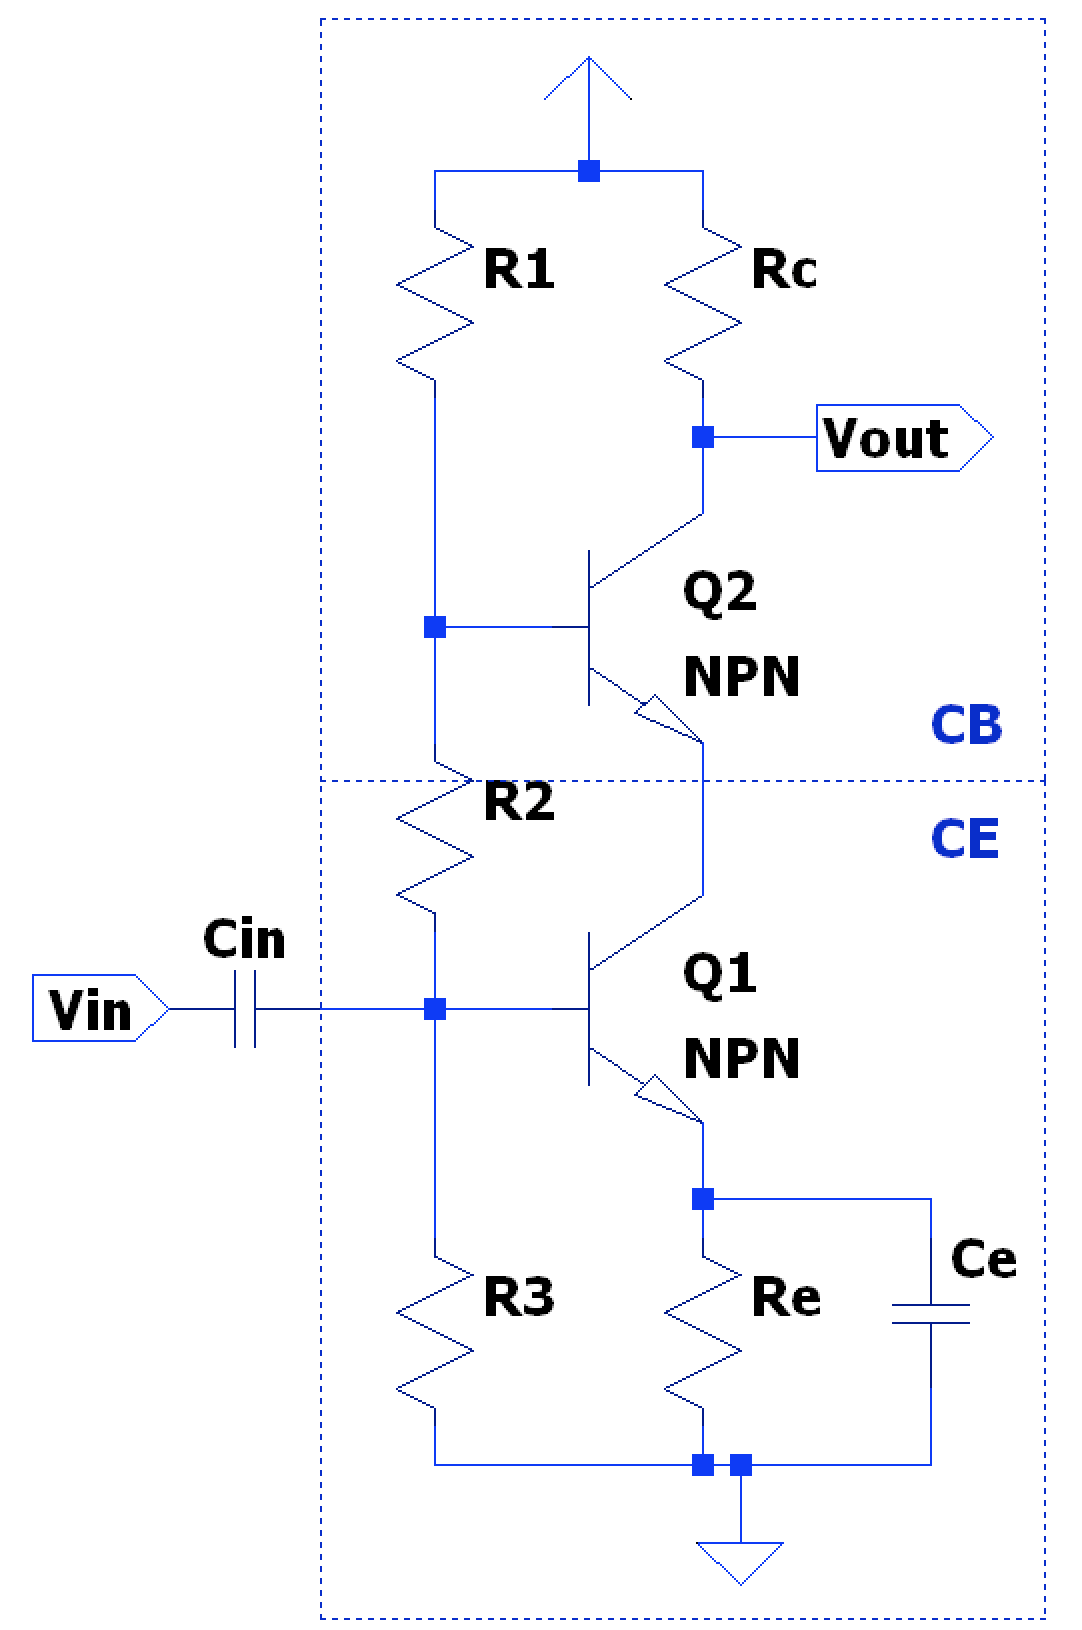
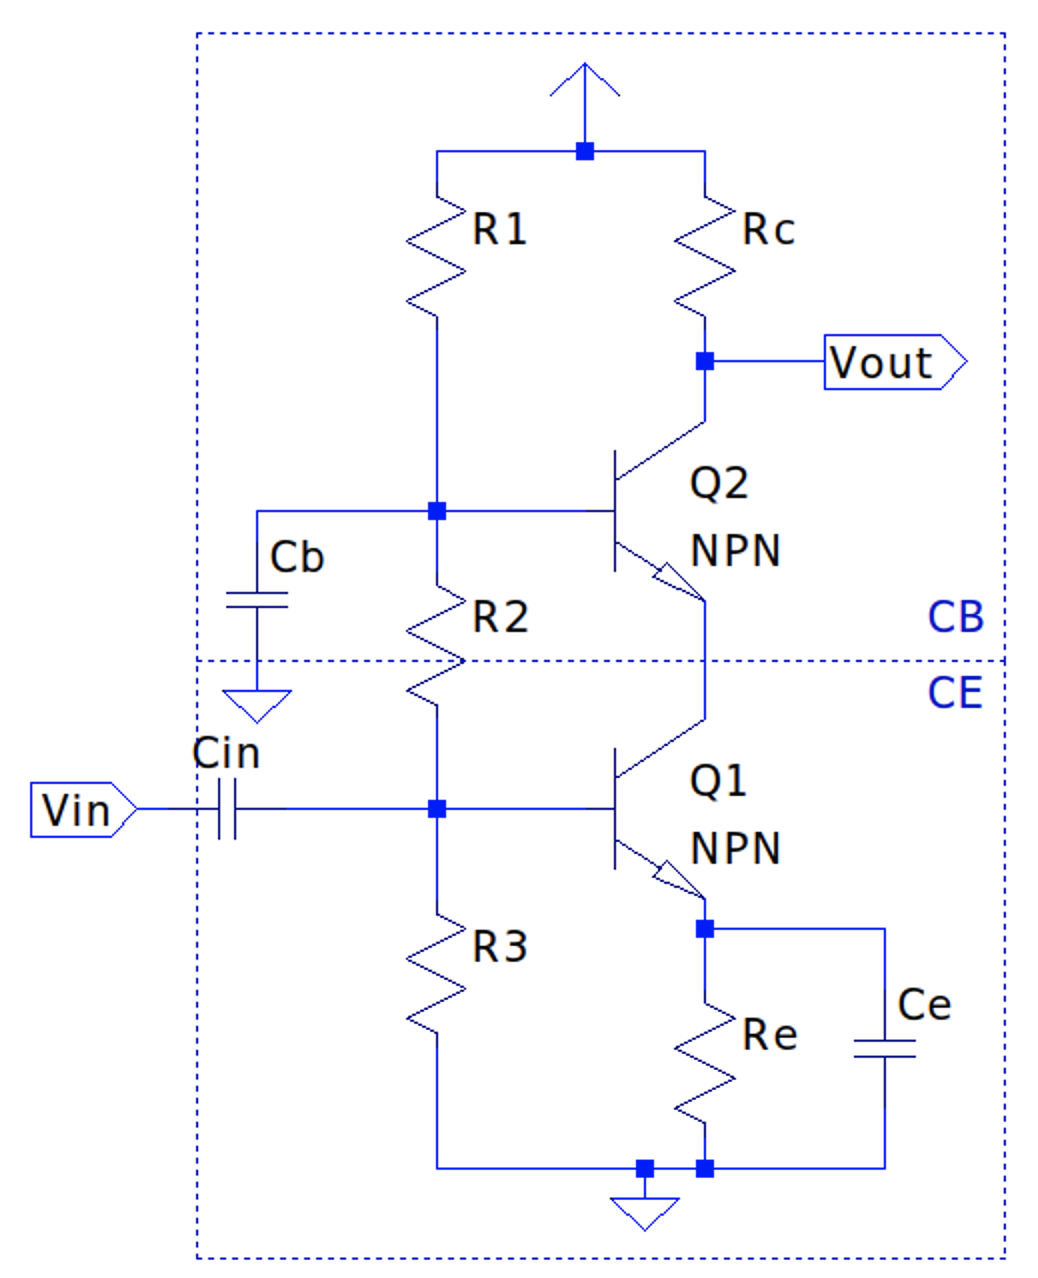
More analog notes

Changed region(s): [[0.0308, 0.0305, 0.9865, 1.0], [0.185, 0.4883, 0.2158, 0.5188]]

diff --git a/kb/analog/transistor_design.md b/kb/analog/transistor_design.md
@@ -19,6 +19,16 @@ The collector terminal in the model is an ideal current source since a BJT opera
 This also follows the ideal current source characteristic of having nearly infinite output impedance:
 \$\$ \frac{v}{i}=r \rightarrow  \frac{\Delta v_{ce} \to \infty}{\Delta i_{c} \to 0} \approx \boxed{ r_{o} = \infty \Omega } \$\$
 
+#### BJT Output Impedance: Early Effect
+
+As shown above though, a real transistor does not exhibit perfectly constant (zero slope) output impedance in the curve above. Instead, there is a property called the **Early Effect** which describes the increase of depletion regions within the transistor with a correlation to increased bias voltage across the collector-emitter junction:
+<center><img src="Early_effect.png"></center>
+This Early Voltage is denoted by the device parameter $$V_{A}$$ which is an imaginary intercept along the negative voltage axis which is shown to follow the slopes of resulting active region plots. The Early voltage of a device is usually around 100V, with higher values indicating higher output impedance numbers. The Early Effect and subsequent changes in depletion regions can more accurately model the collector current and output impedances knowing the Early Voltage of the device and the collector-emitter bias voltage:
+\$\$ I_{C} = I_{B} \beta (1 + \frac{ V_{CE} }{ V_{A} } ) \$\$
+\$\$ r_{o} = \frac{ V_{A} + V_{CE} }{ I_{C} } \$\$
+
+Output impedance of a BJT can also be specified by the BJT's datasheet as output admittance $$h_{oe}$$ in $$\mho$$ (Mhos), the inverse of which gives the output impedance of the BJT as $$r_{o}$$.
+
 #### Emitter Impedance $$r_{e}$$
 
 The base emitter junction has a dynamic impedance $$r_{e}$$ that is given from the relationship of $$ \frac{v_{be}}{i_{e}} $$. Given the BJT can be seen as a forward biased diode from base to emitter, the Shockley diode equation can show the relationship between $$v_{be}$$ and $$i_{e}$$.
@@ -78,7 +88,7 @@ When looking at the output impedance of the $$r_{e}$$ model of a common emitter 
 However, since in this model we are using an ideal current source, the impedance $$Z_{c} = \infty$$. Thus, the added resistances $$r_{e}$$ and $$R_{e}$$ are insignificant and the series impedance is $$\infty$$, and since this looks like an open circuit in parallel with $$R_{c}$$, the output resistance is simply $$R_{c}$$:
 \$\$ Z_{out} = R_{c} \parallel \infty \Rightarrow \boxed { Z_{out} = R_{c} } \$\$
 
-Technically though, the current source in our model doesn't have infinite inpedance and actually can be specified by the BJT's datasheet as output admittance $$h_{oe}$$ in $$\mho$$, the inverse of which gives the output impedance of the BJT as $$r_{o}$$.
+However, the current source in our model may not _always_ be able to be treated as having infinite output impedance due to the contribution of $$r_{o}$$ depending on collector current (or more accurately the [Early Effect](#bjt-output-impedance-early-effect)):
 <center><img src="CE_Zout.png" height="500"></center>
 This value is highly dependent on base current (see varying $$I_{C}$$ vs $$V_{CE}$$ slopes [discussed previously](#r_e--t-model)) but is sometimes large enough to be a factor in computing output impedance such that:
 \$\$ \boxed{ Z_{out} \approx r_{o} \parallel R_{C} } \$\$
@@ -491,7 +501,7 @@ Where $$ R_{Q2} = (\beta_{2} + 1)(r_{e2} + R_{E2}) $$. The [voltage gain of a CC
 #### Cascode (CE-CB) Amplifier
 
 <center><img src="cascode.png" height="500"></center>
-Since CE amplifiers suffer from bandwidth limitations due to [the Miller Effect](#miller-effect), the cascode amplifier increases the bandwidth of a stage by inserting a CB circuit into the collector of a CE circuit. The main reason this happens is the CB amplifier has [a very low input impedance of $$ \approx r_{e} $$](#common-base-amplifier-design) which reduces the gain seen at the collector of the CE stage (since the gain is directly related what would be the collector resistor $$R_{C}$$ but is now the CB $$Z_{in}$$), thereby negating the Miller Effect (which increases input capacitance linearly with inverting voltage gain).
+Since CE amplifiers suffer from bandwidth limitations due to [the Miller Effect](#miller-effect), the cascode amplifier increases the bandwidth of a stage by inserting a CB circuit into the collector of a CE circuit. The main reason this happens is the CB amplifier has [a very low input impedance of $$ \approx r_{e} $$](#common-base-amplifier-design) which reduces the gain seen at the collector of the CE stage (since the gain is directly related what would be the collector resistor $$R_{C}$$ but is now the CB $$Z_{in}$$), thereby negating the Miller Effect (which increases input capacitance linearly with inverting voltage gain). Like a standard CB circuit, the base of the upper stage is grounded at frequency via a coupling capacitor $$C_{b}$$.
 
 Even though this may seem like this negatively affects overall voltage gain, the small signal model of the Cascode configuration can show how the system voltage gain, though, is preserved since the current through the CB stage is about equal through the lower CE stage, thus producing a similar output voltage through the collector resistor in the CB stage. So given equivalent transistors ($$\beta$$ roughly equivalent in both) and similar base currents, we can see:
 <center><img src="cascode_small-signal.png" height="500"></center>
@@ -613,6 +623,13 @@ The input impedance of each leg can be seen similarly to a CE configuration as:
 And since the same input voltage is seen simultaneously to each leg, the total input impedance is the parallel impedance of each leg:
 \$\$ Z_{in} = Z_{in1} \parallel Z_{in2} \$\$
 
+##### LTP Increases Bandwidth
+
+A single-ended mode LTP is an effective means of cancelling out the [Miller Effect](#miller-effect) as it negates the two necessary contributors to the effect:
+* _Inverting Gain:_ we saw above we can achieve a non-inverting gain by taking the output voltage on the opposite side of the input voltage.
+* _Large Voltage Gain:_ Since we only need to have a collector resistor (or current mirror) on the opposite collector side to develop an output voltage, the collector of the input transistor can be tied directly to the positive supply rail, effectively creating a voltage gain of 0 at that collector, further negating the Miller Effect.
+<center><img src="LTP_High_BW.png" height="300"></center>
+
 #### Current Mirrors
 
 In linear circuit design, a common circuit used is the **Current Mirror** and as the name implies the output current is a "mirror" of the input current. It can be used to make an exact copy of sensed current or a scaled version at the output. Current mirrors can also be used to replace collector load resistors, or other resistors, in transistor circuit designs, and in integrated circuit design, transistors can be more advantageous than discrete resistors as they take up less real estate and can be more accurate.
@@ -632,16 +649,21 @@ Current mirrors can also be used to replace the collector resistors in CE & LTP 
 For instance, total gain can be seen as:
 \$\$ A_{v} = -\frac{ R_{C} }{ 2r_{e} } = -\frac{ r_{o2} \parallel r_{o6} }{ 2r_{e} } \$\$
 
-##### LTP Current Mirror Output Impedance
+##### Current Mirror: High Output Impedance
 
-The choice of which transistor to short base-to-emitter (e.g. to create a diode-connected transistor) depends on which output voltage one wants to take (which also depends on wanting inverting or non-inverting polarity output). When the output voltage is taken at the same side as the diode-connected transistor tying- for instance the output at $$Q_{5}$$ above- the impedance is looking into the base terminal of both transistors in parallel:
+The choice of which transistor to short base-to-emitter (e.g. to create a diode-connected transistor) depends on which output voltage one wants to take (which also depends on wanting inverting or non-inverting polarity output). When the output voltage is taken at the same side as the diode-connected transistor tying- for instance the output of a LTP using a Current Mirror in place of Collector Resistors at $$Q_{5}$$ above- the impedance is looking into the base terminal of both transistors in parallel:
 
 \$\$ Z_{out} = Z_{ 5 base } \parallel Z_{ 6 base } = ( \beta_{5} + 1) r_{e5} \parallel ( \beta_{6} + 1) r_{e6} \approx \frac{ (\beta + 1) r_{e} }{2} \$\$
 
 This usually means a much higher input impedance than desired so most designs take the output voltage on the opposite leg of the diode-connected transistor:
 <center><img src="LTP_CM_output.png" height="300"></center>
 
-##### CMRR Improvement
+Even higher output impedance (e.g. $$> 100 M\Omega$$) can be found using matched transistors such as the [MAT-14](https://www.analog.com/en/products/mat14.html#product-overview) (which also provide much more accurate operation) in a configuration such as:
+<center><img src="MAT-14_CM.png" height="300"></center>
+
+Again, as shown above, the replacement of collector resistors with a super high output impedance current mirros can lead to much larger voltage gain in a LTP design.
+
+##### CMRR Improvement in LTP
 
 Given CMRR is the ratio of differential to common-mode gain, we can make a rough approximation that CMRR is directly related to $$R_{T}$$:
 \$\$ \frac{ A_{ v_{DM} } }{ A_{ v_{CM} } } = \frac{ -\frac{ R_{C} }{ 2r_{e} } }{ \frac{ R_{C} }{ r_{e} + 2R_{T} } } \approx \frac{ R_{T} }{ r_{e} } \$\$
@@ -652,7 +674,54 @@ Thus the implication is that to increase CMRR, a designer has two options:
 It's often difficult to decrease $$r_{e}$$ as it requires an increase in bias current- which directly relates to increased power consumption- and there is often an upper limit to how low this resistance can go. Thus the second option is often more effective as the tail resistance can be increased much more by replacing the discrete tail resistor with a current mirror source; in the figure above, the output impedance of the transistor $$Q3$$, $$r_{o3} \gg R_{T}$$ for the same bias current setup. For example, for a bias setup of $$I_{bias}= 1 mA$$ , a tail resistor is calculated as:
 \$\$ R_{T} = \frac{ ( V_{b1} - V_{be1} ) - V_{ee} }{ 2 * I_{bias} } \approx 7.2 k\Omega \$\$
 
+<center><img src="LTP_active_load.png" height="500"></center>
+
 Compare that value to the equivalent output resistance of $$Q_{3}$$ (e.g. a 2N3904 BJT) when programming the current mirror to 2 mA (1 mA bias current for each leg):
 \$\$ Z_{mirror} = r_{o3} = \frac{1}{ h_{OE @ 2mA} } \approx 83 k\Omega \$\$
 
 Compared to the tail resistor, this results in around a 21 dB increase in CMRR.
+
+##### Common Collector Distortion Improvement
+
+The [Common Collector](#common-collector-amplifier-design) can be improved by replacing the emitter degredation resistor with a current mirror. Since the goal of a CC amplifier stage is to provide unity gain and isolate a stage from a load (or other lower input impedance stage), we ideally want a CC's input impedance to be as high as possible. For example, for a 1 mA bias with a 6V emitter voltage, $$R_{E} = 6 k\Omega$$. Since $$Z_{in} = (\beta + 1)(r_{e} + R_{E})$$, $$Z_{in} \approx 720 k\Omega$$ for a typical Beta of around 120. Compare to the input impedance when replacing $$R_{E}$$ with a CM:
+<center><img src="CC_CM_RE.png"></center>
+The output impedance of the current mirror is $$ \approx 120k\Omega$$ for 1 mA bias, so multiplied by $$\beta = 120$$, the input impedance has increased 20x to $$\approx 14M\Omega$$!
+
+The other great improvement of using a CM instead of a discrete resistor in the emitter of a CC is a much improved distortion performance; since CC voltage gain is $$ A_{v} \triangleq \frac{ R_{E} }{ r_{e} + R_{E}} $$, and $$ r_{e} \triangleq \frac{V_{T}}{I_{C}} $$, it can be seen that changes in collector current- caused by changes in emitter/output voltage in large signal operation over the constant emitter resistor- can change the values of $$r_{e}$$ which can distort the output voltages in a non-linear fashion. For instance, over a 1V to 10V large signal output voltage range, the output voltage gain can vary by ~2%:
+
+| $$V_{E}$$ | $$I_{E}$$ | $$r_{e}$$ | $$A_{v}$$ |
+| -- | -- | -- | -- |
+| 1V | 0.17 mA | 156 Ω | **0.975** |
+| 6V | 1 mA | 26 Ω | **0.996** |
+| 10V | 1.7 mA | 16 Ω | **0.997** |
+
+Compare this to the constant current source a current mirror provides; irregardless of emitter/output voltage, the emitter current doesn't change, leading to a constant $$r_{e}$$. Furthermore, the output impedance of the current mirror is much larger than the discrete resistor so, even if $$r_{e}$$ did vary, it contributes much less to the voltage gain equation. Thus output distortion for a CC is much improved.
+
+#### DC Level Shifting
+
+Since the basic principle of base voltage being a diode drop away from the emitter ($$V_{be} \approx 0.7 V$$), this property can be exploited to do a variety of things, for instance chaining diode-connected transistors together to create a larger voltage drop from some input voltage:
+<center><img src="diode_connected_chain.png" height="500"></center>
+\$\$ V_{out} = V_{in} - [ (n + 1)V_{be} ] \$\$
+
+
+### Output Stages & Classes
+
+The Output Stage is designated as the final stage in an amplifier circuit or chain. Whereas previous stages handled input coupling and amplification, the main function of an output stage is to drive an load (e.g. speaker, antenna, other device, etc.). One of the main figures of merit for amplifier designs is it's efficiency, where a more efficient amplifier, which wastes less power, is usually more desirable. Efficiency $$\eta$$ is simply the ratio of output power (for AC circuits, the RMS power delivered to a load) to input power (the DC power required to operate the amplifier design):
+\$\$ \eta = \frac{ P_{out} }{ P_{in} } \$\$
+
+#### Class A
+
+The basic configuration that has mainly been shown is classified as **Class A**; in these circuits, the transistor is always biased to be on (in its active region, conducting and dissipating DC power) which means power is being dissipated whether an input signal is present or not. Because of this, Class A is the least power efficient. For instance, for a basic design below, the input power can be seen to be dominated by the magnitude of supply voltage:
+<center><img src="CE_Cap_out.png" height="500"></center>
+\$\$ P_{in} = V_{cc} I_{C} = V_{cc} \frac{ V_{cc} - V_{C} }{ R_{C} } \$\$
+Assuming $$ V_{C} = V_{CC} / 2$$:
+\$\$ P_{in} = \frac{ V_{cc}^{2} }{ 2 R_{C} } \$\$
+
+In an ideal case in this configuration, an output transistor can swing from the positive supply rail all the way to ground, meaning the peak-to-peak voltage out is approximately $$V_{cc} / 2$$. Converting to RMS by dividing by the square root of 2, $$V_{out_{RMS}} = \frac{ V_{cc} }{ 2 \sqrt{2} } $$. Thus the output power can be defined as:
+\$\$ P_{out} = V_{ out_{ RMS } } I_{ out_{ RMS } } = \frac{ V_{cc} }{ 2 \sqrt{2} } \frac{ V_{cc} }{ 2 \sqrt{2} R_{L} } = \frac{ V_{cc}^{2} }{ 8 R_{L} } \$\$
+
+Thus the ideal efficiency can be seen as:
+\$\$ \eta_{ideal} = \frac{ P_{out} }{ P_{in} } = \frac{ V_{cc}^{2} }{ 8 R_{L} } \frac{ 2 R_{C} }{ V_{cc}^{2} } = \frac{ R_{C} }{ 4 R_{L} } \$\$
+Since the load current is less than the DC supply current, we can assume $$R_{C} < R_{L}$$, meaning in general for class A, $$\eta_{ideal} \leq 25\% $$
+
+#### Class B

diff --git a/kb/analog/fundamentals.md b/kb/analog/fundamentals.md
@@ -258,3 +258,15 @@ Some main analysis types that are commonly used are:
 - **AC/Small Signal:** performs frequency sweeps across the circuit to do frequency domain analysis, however care should be taken since results are linearized about given DC operating point. Valid for small signal analysis.
 - **Transient/Time Domain:** simulation done over a time period to see effects of given events, for example power supply transient response to load step. Valid for large signal analysis.
 - **Noise Analysis:** simulation of system effect of various noise sources in schematic.
+
+#### LTSpice Tricks
+
+* _Change device model parameters:_ One way to quickly change a device's model parameters is the **AKO** method; for instance, to change the forward Beta of a `2N3904` BJT to 120, the below SPICE directive can be made, and then for the transistor to be changed, "Pick" a new part and enter the name used (e.g. `my_2N3904`):
+```
+.model my_2N3904 AKO: 2N3904 (Bf=120)
+```
+Further, if you want to step through a list of parameters to change, one could do:
+```
+.step param beta_step LIST 70 120 210
+.model my_step_2N3904 AKO: 2N3904 (Bf={beta_step})
+```
